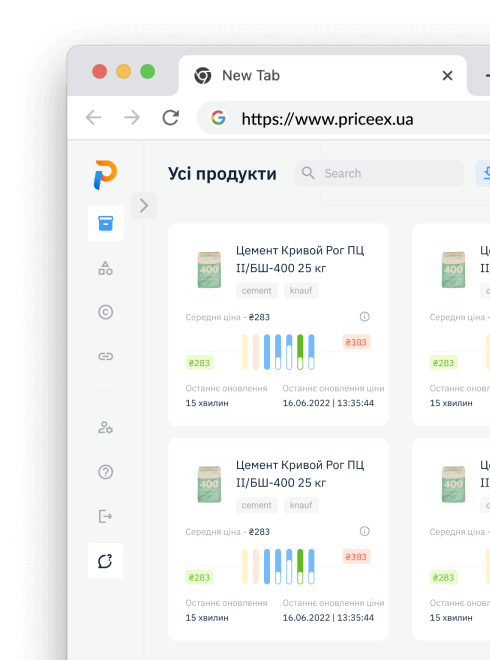
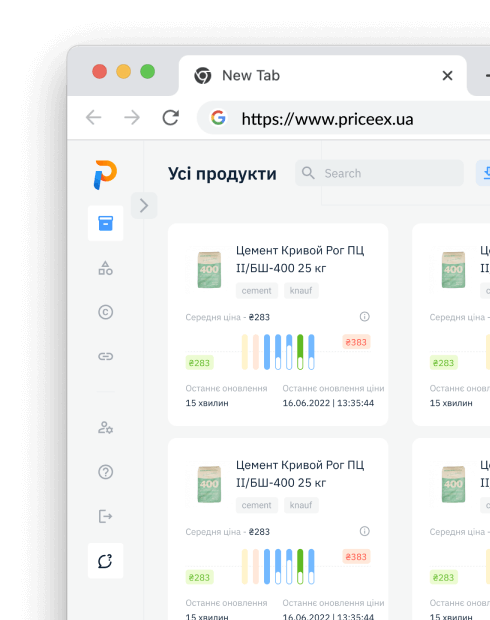
fix product cards images on mobile

diff --git a/src/styles/partials/products.scss b/src/styles/partials/products.scss
@@ -289,18 +289,31 @@
                     }
                 }
                 .product__content{
-                    width: 187px;
+                    width: 250px;
+                    @include sm{
+                        width: 187px;
+                    }
                     @include md{
                         width: 374px;
                     }
                     .product-title{
-                        @media("max-width: 959px"){
+                        font-size: 24px;
+                        line-height: 36px;
+                        @include sm{
                             font-size: 18px;
                             line-height: 28px;
                         }
+                        @include md{
+                            font-size: 36px;
+                            line-height: 44px;
+                        }
+
                     }
                     .product-explore{
-                        margin-top: 12px;
+                        margin-top: 24px;
+                        @include sm{
+                            margin-top: 12px;
+                        }
                         @include md{
                             margin-top: 28px;
                         }
@@ -339,18 +352,30 @@
                     }
                 }
                 .product__content{
-                    width: 187px;
+                    width: 192px;
+                    @include sm{
+                        width: 144px;
+                    }
                     @include md{
-                        width: 374px;
+                        width: 288px;
                     }
                     .product-title{
-                        @media("max-width: 959px"){
+                        font-size: 24px;
+                        line-height: 36px;
+                        @include sm{
                             font-size: 18px;
                             line-height: 28px;
                         }
+                        @include md{
+                            font-size: 36px;
+                            line-height: 44px;
+                        }
                     }
                     .product-explore{
-                        margin-top: 12px;
+                        margin-top: 24px;
+                        @include sm{
+                            margin-top: 12px;
+                        }
                         @include md{
                             margin-top: 28px;
                         }
@@ -434,18 +459,30 @@
                     }
                 }
                 .product__content{
-                    width: 194px;
+                    width: 258px;
+                    @include sm{
+                        width: 194px;
+                    }
                     @include md{
                         width: 387px;
                     }
                     .product-title{
-                        @media("max-width: 959px"){
+                        font-size: 24px;
+                        line-height: 36px;
+                        @include sm{
                             font-size: 18px;
                             line-height: 28px;
                         }
+                        @include md{
+                            font-size: 36px;
+                            line-height: 44px;
+                        }
                     }
                     .product-explore{
-                        margin-top: 12px;
+                        margin-top: 24px;
+                        @include sm{
+                            margin-top: 12px;
+                        }
                         @include md{
                             margin-top: 28px;
                         }
@@ -473,7 +510,7 @@
                     bottom: 0;
                     right: 0;
                     width: 245px;
-                    height: 330px;
+                    height: 310px;
                     @include sm{
                         width: 195px;
                         height: 255px;
@@ -488,18 +525,30 @@
                     }
                 }
                 .product__content{
-                    width: 192px;
+                    width: 281px;
+                    @include sm{
+                        width: 192px;
+                    }
                     @include md{
                         width: 383px;
                     }
                     .product-title{
-                        @media("max-width: 959px"){
+                        font-size: 24px;
+                        line-height: 36px;
+                        @include sm{
                             font-size: 18px;
                             line-height: 28px;
                         }
+                        @include md{
+                            font-size: 36px;
+                            line-height: 44px;
+                        }
                     }
                     .product-explore{
-                        margin-top: 12px;
+                        margin-top: 24px;
+                        @include sm{
+                            margin-top: 12px;
+                        }
                         @include md{
                             margin-top: 28px;
                         }
